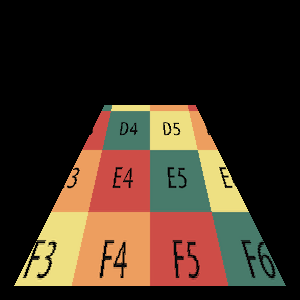
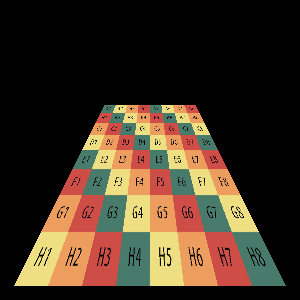
task03 finished

Changed region(s): [[0.06, 0.33, 0.93, 0.96]]

diff --git a/task03/main.cpp b/task03/main.cpp
@@ -68,29 +68,22 @@ void draw_3d_triangle_with_texture(
       // `bc` gives the barycentric coordinate **on the screen** and it is distorted.
       // Compute the barycentric coordinate ***on the 3d triangle** below that gives the correct texture mapping.
       // (Hint: formulate a linear system with 4x4 coefficient matrix and solve it to get the barycentric coordinate)
-      // Eigen::Matrix4f coeff;
-      // Eigen::Vector4f rhs;
-
-      // float f = 2.0f;
-      // Eigen::Matrix3f H;
-      // H(0,0)=f; H(0,1)=0; H(0,2)=0;
-      // H(1,0)=0; H(1,1)=f; H(1,2)=0;
-      // H(2,0)=0; H(2,1)=0; H(2,2)=1;
-      // Eigen::Vector3f Ha = H * Eigen::Vector3f(q0(0), q0(1), q0(2));
-      // Eigen::Vector3f Hb = H * Eigen::Vector3f(q1(0), q1(1), q1(2));
-      // Eigen::Vector3f Hc = H * Eigen::Vector3f(q2(0), q2(1), q2(2));
-      // Eigen::Matrix3f A;
-      // A(0,0)=Ha(0); A(0,1)=Hb(0); A(0,2)=Hc(0);
-      // A(1,0)=Ha(1); A(1,1)=Hb(1); A(1,2)=Hc(1);
-      // A(2,0)=1;     A(2,1)=1;     A(2,2)=1;    
-      // bc = A.inverse() * Eigen::Vector3f(s(0), s(1), 1);
-
-      float f = -2.0f;
-      Eigen::Matrix3f A;
-      A(0,0)=f*q0(0)-s(0)*q0(2); A(0,1)=f*q1(0)-s(0)*q1(2); A(0,2)=f*q2(0)-s(0)*q2(2);
-      A(1,0)=f*q0(1)-s(1)*q0(2); A(1,1)=f*q1(1)-s(1)*q1(2); A(1,2)=f*q2(1)-s(1)*q2(2);
-      A(2,0)=1; A(2,1)=1; A(2,2)=1;
-      bc = A.inverse() * Eigen::Vector3f(0.f,0.f,1.f);
+      float f = 1.0f;
+      Eigen::Matrix4f H;
+      H(0,0)=f; H(0,1)=0; H(0,2)=0; H(0,3)=0;
+      H(1,0)=0; H(1,1)=f; H(1,2)=0; H(1,3)=0;
+      H(2,0)=0; H(2,1)=0; H(2,2)=f; H(2,3)=0;
+      H(3,0)=0; H(3,1)=0; H(3,2)=0; H(3,3)=1;
+      Eigen::Vector4f Ha = H * q0;
+      Eigen::Vector4f Hb = H * q1;
+      Eigen::Vector4f Hc = H * q2;
+      Eigen::Matrix4f coeff;
+      coeff(0,0)=Ha(0); coeff(0,1)=Hb(0); coeff(0,2)=Hc(0); coeff(0,3)=-s(0);
+      coeff(1,0)=Ha(1); coeff(1,1)=Hb(1); coeff(1,2)=Hc(1); coeff(1,3)=-s(1);
+      coeff(2,0)=Ha(3); coeff(2,1)=Hb(3); coeff(2,2)=Hc(3); coeff(2,3)=-1;
+      coeff(3,0)=1; coeff(3,1)=1; coeff(3,2)=1; coeff(3,3)=0;
+      Eigen::Vector4f rhs = coeff.inverse()*Eigen::Vector4f(0,0,0,1);
+      bc = Eigen::Vector3f(rhs(0), rhs(1), rhs(2));
 
       // do not change below
       auto uv = uv0 * bc[0] + uv1 * bc[1] + uv2 * bc[2]; // uv coordinate of the pixel
